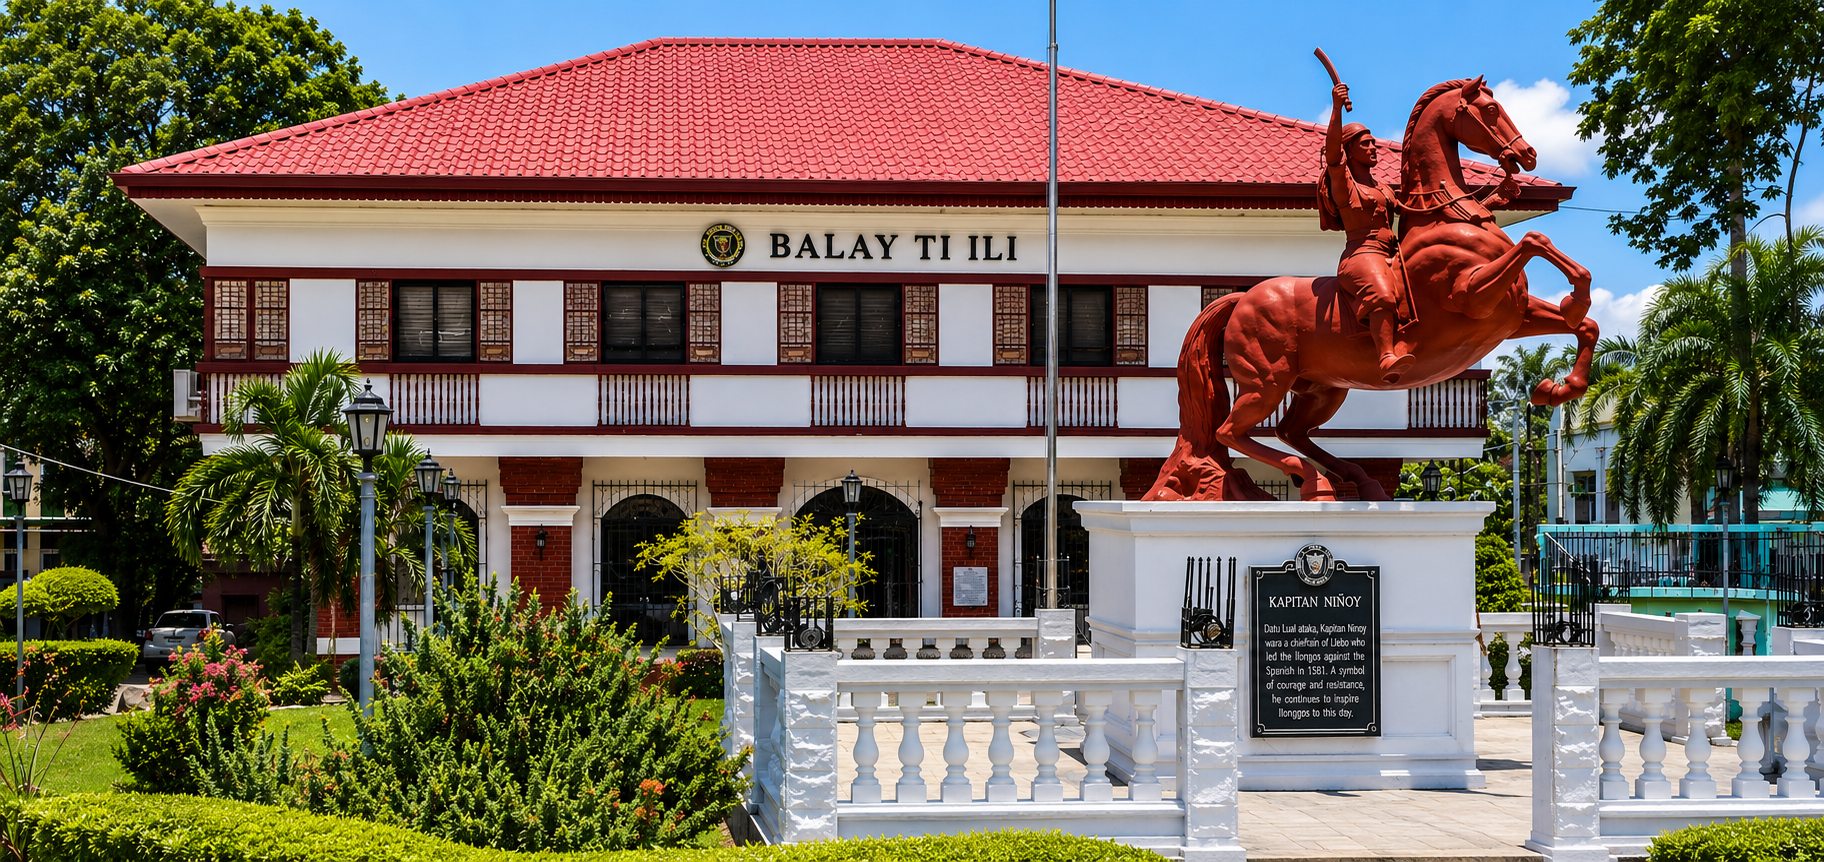
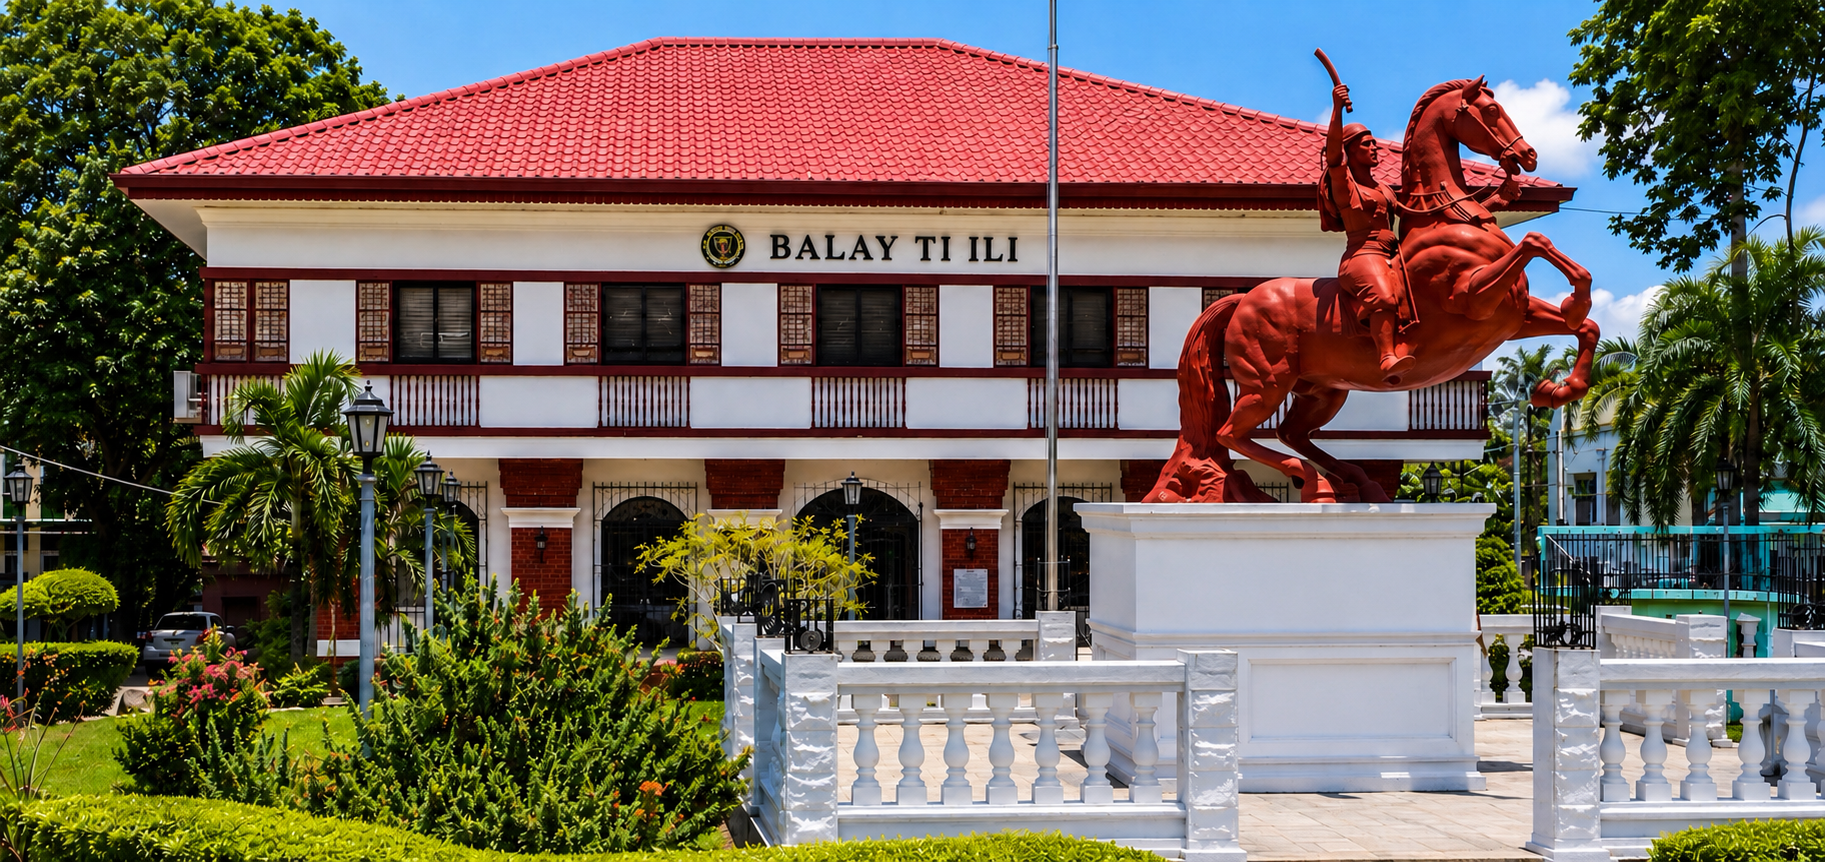
update

diff --git a/01-main-system/style.css b/01-main-system/style.css
@@ -576,31 +576,13 @@ transform 0.3s ease,
 opacity 0.3s ease;
 }
 
-.chapter-card::after{
-content:'';
-
-position:absolute;
-inset:0;
-
-background:
-linear-gradient(
-180deg,
-rgba(255,255,255,.06),
-transparent 28%
-);
-
-pointer-events:none;
-
-z-index:6;
-}
-
 .chapter-card:hover{
 transform:
-translateY(-8px)
-scale(1.015);
+translateY(-4px)
+scale(1.01);
 
 box-shadow:
-0 30px 60px rgba(0,0,0,0.42);
+0 20px 40px rgba(0,0,0,0.34);
 }
 
 .chapter-image{
@@ -613,11 +595,15 @@ height:100%;
 object-fit:cover !important;
 object-position:center !important;
 
-opacity:0.42 !important;
+opacity:0.18 !important;
 
-transform:scale(1.02);
+transform:scale(1);
 
 z-index:1;
+
+filter:
+brightness(.55)
+contrast(1.05);
 }
 
 .chapter-overlay{
@@ -646,15 +632,15 @@ height:100%;
 object-fit:contain;
 object-position:center;
 
-padding:40px;
+padding:55px;
 
-opacity:0.14;
+opacity:0.08;
 
 z-index:3;
 
 pointer-events:none;
 
-transform:scale(0.82);
+transform:scale(0.72);
 
 filter:
 drop-shadow(0 20px 40px rgba(0,0,0,0.34));
@@ -748,7 +734,7 @@ opacity:1;
 
 transform:
 translateY(-50%)
-scale(1.06);
+scale(1.04);
 }
 
 .nav-arrow.prev{
@@ -1125,8 +1111,8 @@ height:360px;
 }
 
 .chapter-building{
-padding:28px;
-transform:scale(0.80);
+padding:36px;
+transform:scale(0.70);
 }
 
 .chapter-title{
@@ -1171,8 +1157,8 @@ border-radius:28px;
 }
 
 .chapter-building{
-padding:18px;
-transform:scale(0.78);
+padding:22px;
+transform:scale(0.66);
 }
 
 .chapter-title{